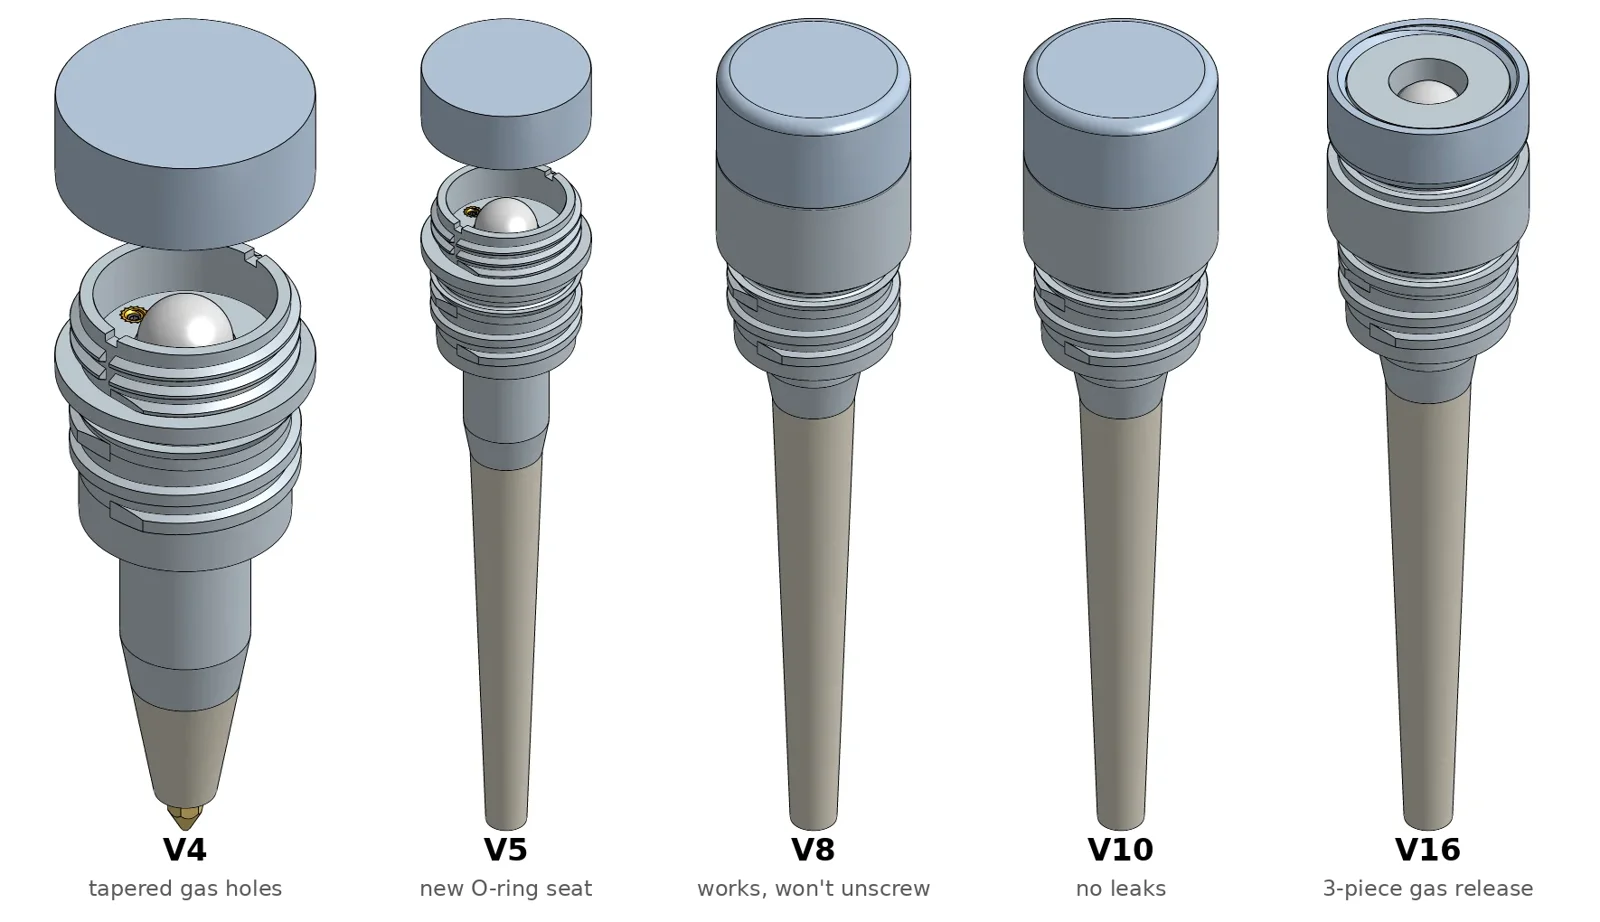
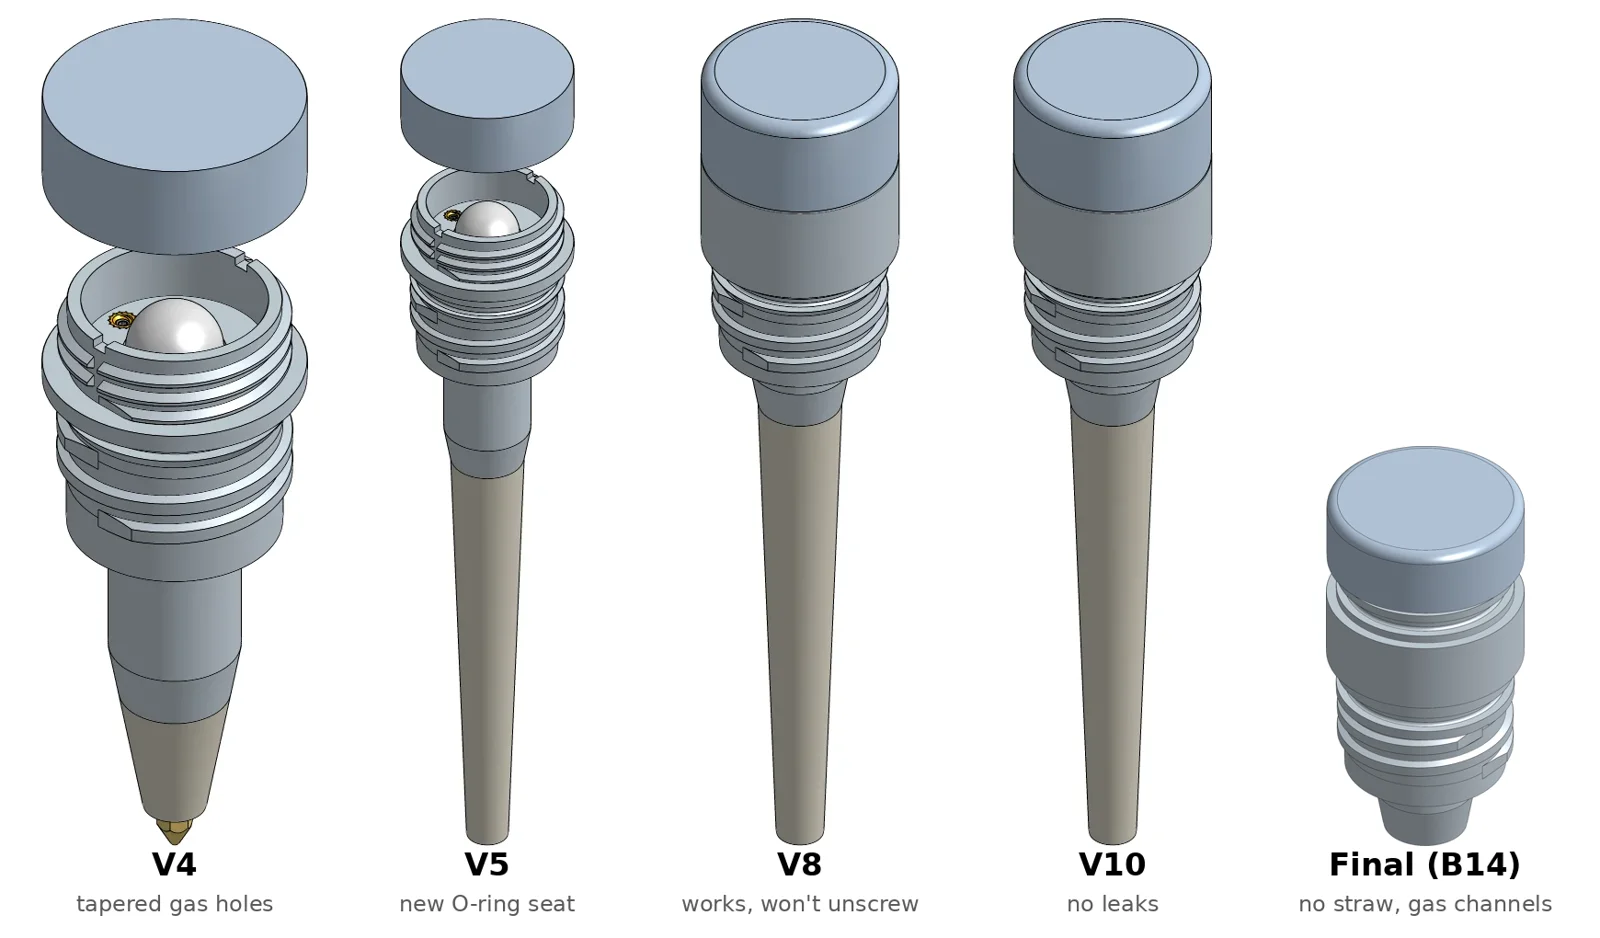
Sparkli: hero strip ends with the final B14 assembly (no straw)
Claude-Session: https://claude.ai/code/session_015u1qBHk5SKxkJdhWzKtsKJ

diff --git a/app/blogs/sparkli/page.tsx b/app/blogs/sparkli/page.tsx
@@ -111,7 +111,7 @@ export default function SparkliPost() {
       <Wide
         src={`${B}cad-evolution.webp`}
         alt="Sparkli CAD versions side by side"
-        cap="A few of the Sparkli versions from Onshape, summer 2025. Every one of these got printed, assembled, and fired."
+        cap="A few of the Sparkli versions from Onshape, from summer 2025 to the final design (B14, right), which dropped the straw. Every one of these got printed, assembled, and fired."
       />
 
       <div className="sans mt-8 grid grid-cols-2 gap-3 sm:grid-cols-4">
